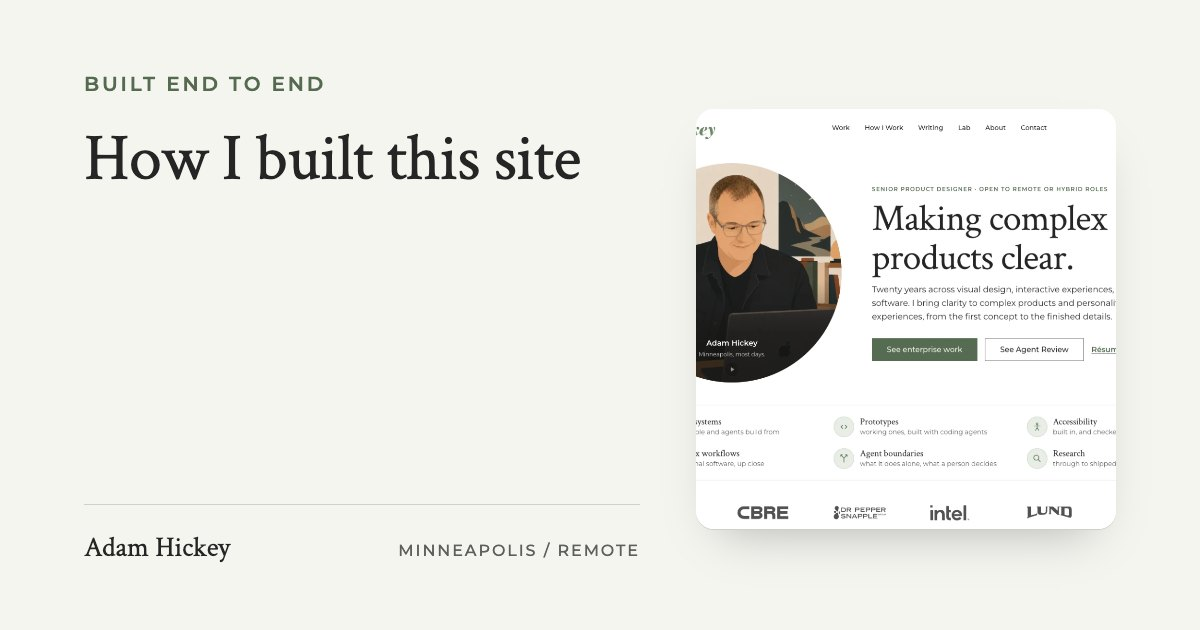
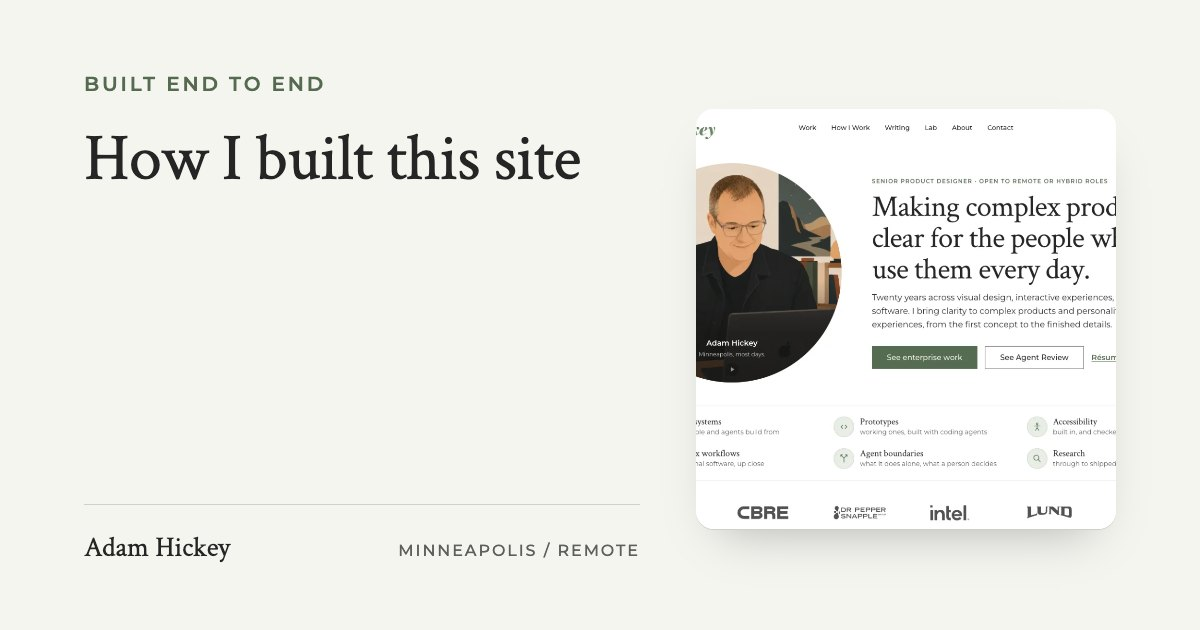
Homepage headline: "Making complex products clear for the people who use them every day.", three lines at 64px beside the portrait, back on --type-title-inset (36 -> 64) and --type-title (34 -> 68 stacked) where #650 had given it a 48 -> 80 ramp of its own. Four words read too short and 80px too lou

Changed region(s): [[0.7092, 0.2714, 0.925, 0.6032], [0.6783, 0.181, 0.8633, 0.2111]]

diff --git a/design-system/index.html b/design-system/index.html
@@ -84,8 +84,8 @@
   <!-- The site stylesheet IS the system; this page documents it. -->
   <link rel="stylesheet" href="../color.css?v=9" />
   <link rel="stylesheet" href="../shell.css?v=6" />
-  <link rel="stylesheet" href="../type.css?v=6" />
-  <link rel="stylesheet" href="../style.css?v=20261026a" />
+  <link rel="stylesheet" href="../type.css?v=7" />
+  <link rel="stylesheet" href="../style.css?v=20261026b" />
   <link rel="stylesheet" href="../site-nav.css?v=20261026a" />
   <link rel="stylesheet" href="ds.css?v=44" />
 </head>
@@ -421,15 +421,14 @@
         <table class="ds-table ds-table-wide">
           <thead><tr><th>Ramp</th><th>Steps</th><th>min &rarr; max</th><th>Here, now</th><th>Use</th></tr></thead>
           <tbody id="ds-ramps">
-            <tr data-token="--type-title"><td><code>--type-title</code></td><td>4xl &rarr; 8xl</td><td>34 &rarr; 68</td><td class="ds-ramp-now"></td><td><code>h1</code>, every page title but the homepage hero.</td></tr>
+            <tr data-token="--type-title"><td><code>--type-title</code></td><td>4xl &rarr; 8xl</td><td>34 &rarr; 68</td><td class="ds-ramp-now"></td><td><code>h1</code>, every page title, the homepage hero included.</td></tr>
             <tr data-token="--type-section"><td><code>--type-section</code></td><td>3xl &rarr; 6xl</td><td>28 &rarr; 48</td><td class="ds-ramp-now"></td><td><code>h2</code>, a section heading.</td></tr>
             <tr data-token="--type-subsection"><td><code>--type-subsection</code></td><td>2xl &rarr; 4xl</td><td>24 &rarr; 34</td><td class="ds-ramp-now"></td><td><code>h3</code>, a subsection heading.</td></tr>
             <tr data-token="--type-lede"><td><code>--type-lede</code></td><td>lg &rarr; 2xl</td><td>18 &rarr; 24</td><td class="ds-ramp-now"></td><td>Deks, ledes, pull quotes.</td></tr>
-            <tr data-token="--type-title-inset"><td><code>--type-title-inset</code></td><td>2xs&nbsp;h1 &rarr; 4xl</td><td>36 &rarr; 64</td><td class="ds-ramp-now"></td><td>A title that shares its row with a picture: the cockpit's.</td></tr>
-            <tr data-token="--type-title-hero"><td><code>--type-title-hero</code></td><td>6xl &rarr; 9xl</td><td>48 &rarr; 80</td><td class="ds-ramp-now"></td><td>The homepage hero, at every width: 48 through 768, 80 from 1280.</td></tr>
+            <tr data-token="--type-title-inset"><td><code>--type-title-inset</code></td><td>2xs&nbsp;h1 &rarr; 4xl</td><td>36 &rarr; 64</td><td class="ds-ramp-now"></td><td>The homepage hero, which shares its row with the portrait.</td></tr>
           </tbody>
         </table>
-        <p class="ds-demo-note">The shared window is the point, not a tidiness preference. At any width every ramp sits at the same progress between its own endpoints, so an ordering that holds at 400px and at 1280px holds at every width in between, provably, with nothing to test. Two ramps are deliberately outside it, and both run 768 to 1280, because the column they are sized against only exists in that range. <code>--type-title-inset</code> is for a title beside a picture; below 768 the row stacks and the title takes <code>--type-title</code> like every other h1. <code>--type-title-hero</code> is the homepage's four-word headline, which sets in two lines at 48 on a phone and holds 48 until the portrait moves beside it, then climbs to 80. A ramp is sized against the column it lands in, not against the page.</p>
+        <p class="ds-demo-note">The shared window is the point, not a tidiness preference. At any width every ramp sits at the same progress between its own endpoints, so an ordering that holds at 400px and at 1280px holds at every width in between, provably, with nothing to test. One ramp is deliberately outside it: <code>--type-title-inset</code> runs 768 to 1280, because the column it is sized against only exists in that range. Above 768 the homepage hero shares its row with the portrait; below it the row stacks and the title takes <code>--type-title</code> like every other h1. A ramp is sized against the column it lands in, not against the page.</p>
 
         <h3 class="ds-sub">The heading ladder</h3>
         <p class="ds-lede">Sizes come from the ladder; the ladder comes from the document outline. Never skip a level to reach a size.</p>
@@ -438,7 +437,6 @@
           <tbody>
             <tr><td><code>h1</code> page title</td><td><code>--type-title</code></td><td>34 &rarr; 68</td><td>Serif</td><td>400</td><td>1.05</td><td>&minus;0.02em</td></tr>
             <tr><td><code>h1</code> in a narrow column</td><td><code>--type-title-inset</code></td><td>36 &rarr; 64</td><td>Serif</td><td>400</td><td>1.05</td><td>&minus;0.02em</td></tr>
-            <tr><td><code>h1</code> homepage hero</td><td><code>--type-title-hero</code></td><td>48 &rarr; 80</td><td>Serif</td><td>400</td><td>1.05</td><td>&minus;0.02em</td></tr>
             <tr><td><code>h2</code> section</td><td><code>--type-section</code></td><td>28 &rarr; 48</td><td>Serif</td><td>400</td><td>1.15</td><td>&minus;0.015em</td></tr>
             <tr><td><code>h3</code> subsection</td><td><code>--type-subsection</code></td><td>24 &rarr; 34</td><td>Serif</td><td>400</td><td>1.15</td><td>&minus;0.01em</td></tr>
             <tr><td><code>h4</code> block title</td><td><code>--text-xl</code></td><td>20</td><td>Sans</td><td>600</td><td>1.35</td><td>&minus;0.01em</td></tr>

diff --git a/index.html b/index.html
@@ -21,7 +21,7 @@
 
   <meta name="color-scheme" content="light" />
   <meta property="og:title" content="Adam Hickey | Senior Product Designer for Complex Software" />
-  <meta property="og:description" content="Making complex products clear. Twenty years across visual design, interactive experiences, and enterprise software: clarity for complex products and personality for digital experiences, from the first concept to the finished details." />
+  <meta property="og:description" content="Making complex products clear for the people who use them every day. Twenty years across visual design, interactive experiences, and enterprise software: clarity for complex products and personality for digital experiences, from the first concept to the finished details." />
   <meta property="og:type" content="website" />
   <!-- Absolute because scrapers do not resolve a relative og:image, and the
        canonical origin is the production one whichever host is serving this:
@@ -30,7 +30,7 @@
        "How a change reaches the live site". -->
   <link rel="canonical" href="https://adamhickey.com/" />
   <meta property="og:url" content="https://adamhickey.com/" />
-  <meta property="og:image" content="https://adamhickey.com/img/og/index.jpg?v=9" />
+  <meta property="og:image" content="https://adamhickey.com/img/og/index.jpg?v=10" />
   <meta property="og:image:width" content="1200" />
   <meta property="og:image:height" content="630" />
   <meta name="twitter:card" content="summary_large_image" />
@@ -51,7 +51,7 @@
           "jobTitle": "Senior Product Designer",
           "description": "Senior product designer for complex enterprise software, design systems and agentic workflows, who builds what he designs, in Minneapolis.",
           "url": "https://adamhickey.com/",
-          "image": "https://adamhickey.com/img/og/index.jpg?v=9",
+          "image": "https://adamhickey.com/img/og/index.jpg?v=10",
           "email": "mailto:adam@adamhickey.com",
           "address": {
             "@type": "PostalAddress",
@@ -85,7 +85,7 @@
           "name": "Adam Hickey — Product Design",
           "description": "Adam Hickey's independent product design practice in Minneapolis, for complex enterprise software: design systems, modernizing legacy products, and AI product prototypes. Twenty years inside enterprise platforms, design systems, and products that outgrew their original shape.",
           "url": "https://adamhickey.com/",
-          "image": "https://adamhickey.com/img/og/index.jpg?v=9",
+          "image": "https://adamhickey.com/img/og/index.jpg?v=10",
           "founder": {
             "@id": "https://adamhickey.com/#adam"
           },
@@ -121,8 +121,8 @@
   <link rel="stylesheet" href="https://fonts.googleapis.com/css2?family=Crimson+Text:ital,wght@0,400;1,400&family=Montserrat:wght@400;500;600;700&display=swap" />
   <link rel="stylesheet" href="color.css?v=9" />
   <link rel="stylesheet" href="shell.css?v=6" />
-  <link rel="stylesheet" href="type.css?v=6" />
-  <link rel="stylesheet" href="style.css?v=20261026a" />
+  <link rel="stylesheet" href="type.css?v=7" />
+  <link rel="stylesheet" href="style.css?v=20261026b" />
   <link rel="stylesheet" href="site-nav.css?v=20261026a" />
   <link rel="stylesheet" href="app-device.css?v=1" />
   <link rel="stylesheet" href="quiet-cancel.css?v=1" />
@@ -395,14 +395,17 @@
                experiences made clear, distinctive, and precise." until the
                same day, when Adam kept "clear" and wanted the rest shorter:
                "Making complex products clear." names the problem the work
-               solves, where "distinctive" is what every studio says. The dek is the twenty years across the three
+               solves, where "distinctive" is what every studio says. Later that
+               day Adam found four words too short and the 80px they were set
+               at too loud: the line names who the clarity is for, in three
+               lines, and the size is the --type-title-inset it had before. The dek is the twenty years across the three
                kinds of work, then what he brings to each, in 30 words. The
                agents left the dek: Agent Review keeps the second button and
                the lab card, and the eyebrow still says the title a recruiter
                searches. The share card, og:description and llms.txt's summary
                moved with it; the <title> and description are search language
                and stayed. -->
-<h1 class="hero-title">Making complex products clear.</h1>
+<h1 class="hero-title">Making complex products clear for the people who use them every day.</h1>
           <!-- ONE PARAGRAPH, since 2026-10-09. The thesis came out: "AI is
                changing the shape of product design" is the one sentence on
                the page every reader already believes, and "I'm exploring

diff --git a/case-study/this-site.html b/case-study/this-site.html
@@ -19,7 +19,7 @@
   <meta property="og:url" content="https://adamhickey.com/case-study/this-site.html" />
   <meta property="og:title" content="How I built this site | Adam Hickey" />
   <meta property="og:description" content="How adamhickey.com is built: thirty-eight pages of plain HTML with no framework and no build step, three token files under four normative specs, and eleven checks that measure the rendered page before anything ships." />
-  <meta property="og:image" content="https://adamhickey.com/img/og/this-site.jpg?v=9" />
+  <meta property="og:image" content="https://adamhickey.com/img/og/this-site.jpg?v=10" />
   <meta property="og:image:width" content="1200" />
   <meta property="og:image:height" content="630" />
   <meta name="twitter:card" content="summary_large_image" />
@@ -40,7 +40,7 @@
           "description": "A build write-up for adamhickey.com: thirty-eight pages of plain HTML with no framework and no build step, three token files under four normative specs, and eleven checks that measure the rendered page before anything ships.",
           "url": "https://adamhickey.com/case-study/this-site.html",
           "mainEntityOfPage": "https://adamhickey.com/case-study/this-site.html",
-          "image": "https://adamhickey.com/img/og/this-site.jpg?v=9",
+          "image": "https://adamhickey.com/img/og/this-site.jpg?v=10",
           "datePublished": "2026-09-17",
           "dateModified": "2026-10-26",
           "author": {
@@ -93,8 +93,8 @@
        studies load: one request, no framework. -->
   <link rel="stylesheet" href="../color.css?v=9" />
   <link rel="stylesheet" href="../shell.css?v=6" />
-  <link rel="stylesheet" href="../type.css?v=6" />
-  <link rel="stylesheet" href="../style.css?v=20261026a" />
+  <link rel="stylesheet" href="../type.css?v=7" />
+  <link rel="stylesheet" href="../style.css?v=20261026b" />
   <link rel="stylesheet" href="../site-nav.css?v=20261026a" />
   <!-- The chapters arrive as they are read. See reveal.css for why this is
        its own pair of files rather than style.css's .reveal. -->
@@ -238,8 +238,8 @@
              sits one click away would be the one dishonest picture here. -->
         <figure class="build-shot">
           <div class="build-laptop"><div class="build-laptop-lid">
-              <img src="../img/site/this-site.webp?v=10" width="1400" height="875" fetchpriority="high" decoding="async"
-                   alt="The homepage of this site at laptop width: the wordmark and six section links across the top, the portrait in a circle on the left, and on the right the eyebrow Senior Product Designer &middot; Open to remote or hybrid roles over the title &ldquo;Making complex products clear.&rdquo;, a three-line dek beginning &ldquo;Twenty years across visual design, interactive experiences, and enterprise software.&rdquo;, a green See enterprise work button, an outlined See Agent Review button and a R&eacute;sum&eacute; link. Under the pair, six facts in two rows of three, each with a small line icon in a pale disc, among them Agent boundaries, and a row of six client wordmarks along the bottom." />
+              <img src="../img/site/this-site.webp?v=11" width="1400" height="875" fetchpriority="high" decoding="async"
+                   alt="The homepage of this site at laptop width: the wordmark and six section links across the top, the portrait in a circle on the left, and on the right the eyebrow Senior Product Designer &middot; Open to remote or hybrid roles over the title &ldquo;Making complex products clear for the people who use them every day.&rdquo;, a three-line dek beginning &ldquo;Twenty years across visual design, interactive experiences, and enterprise software.&rdquo;, a green See enterprise work button, an outlined See Agent Review button and a R&eacute;sum&eacute; link. Under the pair, six facts in two rows of three, each with a small line icon in a pale disc, among them Agent boundaries, and a row of six client wordmarks along the bottom." />
             </div></div>
         </figure>
 

diff --git a/type.css b/type.css
@@ -83,11 +83,8 @@
 
      The thing actually worth wanting here -- a bigger page title on a phone
      -- needs either a shorter hero line or a step the scale does not have.
-     Both are real options; neither is a floor change. The first is what
-     happened, on 2026-10-26: the hero line went to four words and took a
-     ramp of its own, --type-title-hero below, and every other h1 kept these
-     floors. */
-  --type-title:      clamp(2.125rem, calc(2.125rem + 2.125 * (100vw - 25rem) / 55), 4.25rem); /* 34 -> 68  h1, every page title but the homepage hero */
+     Both are real options; neither is a floor change. */
+  --type-title:      clamp(2.125rem, calc(2.125rem + 2.125 * (100vw - 25rem) / 55), 4.25rem); /* 34 -> 68  h1; the homepage hero only while stacked */
   --type-section:    clamp(1.75rem,  calc(1.75rem  + 1.25  * (100vw - 25rem) / 55), 3rem);    /* 28 -> 48  h2 */
   --type-subsection: clamp(1.5rem,   calc(1.5rem   + 0.625 * (100vw - 25rem) / 55), 2.125rem);/* 24 -> 34  h3 */
   --type-lede:       clamp(1.125rem, calc(1.125rem + 0.375 * (100vw - 25rem) / 55), 1.5rem);  /* 18 -> 24  deks, ledes */
@@ -104,18 +101,7 @@
      stacks, the title spans the container again, and it takes --type-title
      like every other h1. The seam is the layout's own breakpoint rather
      than an unreconciled second curve. */
-  --type-title-inset: clamp(2.25rem, calc(2.25rem + 1.75 * (100vw - 48rem) / 32), 4rem); /* 36 -> 64  a title beside a picture: the cockpit's */
-
-  /* THE HOMEPAGE HERO HAS ITS OWN RAMP SINCE 2026-10-26. "Making complex
-     products clear." is four words where the old headline was nine, and its
-     longer line, "products clear.", is 6.29em wide, so the title can grow
-     a long way and still set in two lines: 48 on a phone, held through 768
-     where the portrait moves beside it (388px of column, room for 61), then
-     up to 80 at 1280 (681px, room for 108). One curve from phone to
-     desktop, so there is no seam at the breakpoint, and both pins are
-     steps, 6xl and 9xl. 13vw is the one floor below 360, where 48 would
-     run "complex" onto a third line: 41.6 at 320, out of the way by 375. */
-  --type-title-hero: min(13vw, clamp(3rem, calc(3rem + 2 * (100vw - 48rem) / 32), 5rem)); /* 48 -> 80  the homepage hero */
+  --type-title-inset: clamp(2.25rem, calc(2.25rem + 1.75 * (100vw - 48rem) / 32), 4rem); /* 36 -> 64  the hero title, beside the portrait */
 
   /* Line height -- a function of size, not of component. Bigger type needs
      less leading; at 80px, 1.05 already opens more space than 1.6 at 16px. */

diff --git a/style.css b/style.css
@@ -3416,18 +3416,18 @@ a.mini-phone:focus-visible { transform: scale(var(--motion-lift)); }
   .hero-copy  { grid-column: 2; grid-row: 1; width: auto; transform: translateY(var(--space-xl)); }
 }
 .hero-title {
-  /* Balance evens the rag so no line is left an orphan. Applies to the
-     block, so the per-character spans the kinetic reveal adds do not
-     interfere. */
+  /* Nine words wrap to three lines and stranded "sense." on its own; balance
+     evens the rag so no line is left an orphan. Applies to the block, so the
+     per-character spans the kinetic reveal adds do not interfere. */
   text-wrap: balance;
-  /* One ramp at every width, stacked and beside the portrait; see
-     --type-title-hero in type.css. */
-  font-size: var(--type-title-hero);
+  /* Stacked, this is a page title like any other. Beside the portrait it
+     is not, and takes the inset ramp; see --type-title-inset in type.css. */
+  font-size: var(--type-title);
   line-height: var(--leading-display);
   letter-spacing: var(--tracking-display);
   margin: 0 0 var(--space-sm);
 }
-@media (min-width: 768px) { .hero-title { margin-top: 0; } }
+@media (min-width: 768px) { .hero-title { margin-top: 0; font-size: var(--type-title-inset); } }
 /* This used to carry a second font-size: 11.6vw was chosen so the headline
    filled the measure on phones, where the desktop clamp bottomed out and sat
    short. It worked, but the two curves met at the breakpoint without ever

diff --git a/prototype/dispatch-cockpit.html b/prototype/dispatch-cockpit.html
@@ -115,8 +115,8 @@
   <link rel="stylesheet" href="https://fonts.googleapis.com/css2?family=Crimson+Text:ital,wght@0,400;1,400&family=Montserrat:wght@400;500;600;700&display=swap" />
   <link rel="stylesheet" href="../color.css?v=9" />
   <link rel="stylesheet" href="../shell.css?v=6" />
-  <link rel="stylesheet" href="../type.css?v=6" />
-  <link rel="stylesheet" href="../style.css?v=20261026a" />
+  <link rel="stylesheet" href="../type.css?v=7" />
+  <link rel="stylesheet" href="../style.css?v=20261026b" />
   <link rel="stylesheet" href="../site-nav.css?v=20261026a" />
   <!-- The chapters arrive as they are read. See reveal.css for why this is
        its own pair of files rather than style.css's .reveal. -->

diff --git a/lab/designing-motion.html b/lab/designing-motion.html
@@ -104,8 +104,8 @@
   <link rel="stylesheet" href="https://fonts.googleapis.com/css2?family=Crimson+Text:ital,wght@0,400;1,400&family=Montserrat:wght@400;500;600;700&display=swap" />
   <link rel="stylesheet" href="../color.css?v=9" />
   <link rel="stylesheet" href="../shell.css?v=6" />
-  <link rel="stylesheet" href="../type.css?v=6" />
-  <link rel="stylesheet" href="../style.css?v=20261026a" />
+  <link rel="stylesheet" href="../type.css?v=7" />
+  <link rel="stylesheet" href="../style.css?v=20261026b" />
   <link rel="stylesheet" href="../site-nav.css?v=20261026a" />
   <script src="../site-nav.js?v=20260906a" defer></script>
   <!-- The header logo plays a one-shot reveal clip on load and fades out

diff --git a/writing/index.html b/writing/index.html
@@ -108,8 +108,8 @@
   <link rel="stylesheet" href="https://fonts.googleapis.com/css2?family=Crimson+Text:ital,wght@0,400;1,400&family=Montserrat:wght@400;500;600;700&display=swap" />
   <link rel="stylesheet" href="../color.css?v=9" />
   <link rel="stylesheet" href="../shell.css?v=6" />
-  <link rel="stylesheet" href="../type.css?v=6" />
-  <link rel="stylesheet" href="../style.css?v=20261026a" />
+  <link rel="stylesheet" href="../type.css?v=7" />
+  <link rel="stylesheet" href="../style.css?v=20261026b" />
   <link rel="stylesheet" href="../site-nav.css?v=20261026a" />
   <script src="../site-nav.js?v=20260906a" defer></script>
   <!-- The header logo plays a one-shot reveal clip on load and fades out

diff --git a/writing/designing-for-the-moment-the-workflow-breaks.html b/writing/designing-for-the-moment-the-workflow-breaks.html
@@ -107,8 +107,8 @@
   <link rel="stylesheet" href="https://fonts.googleapis.com/css2?family=Crimson+Text:ital,wght@0,400;1,400&family=Montserrat:wght@400;500;600;700&display=swap" />
   <link rel="stylesheet" href="../color.css?v=9" />
   <link rel="stylesheet" href="../shell.css?v=6" />
-  <link rel="stylesheet" href="../type.css?v=6" />
-  <link rel="stylesheet" href="../style.css?v=20261026a" />
+  <link rel="stylesheet" href="../type.css?v=7" />
+  <link rel="stylesheet" href="../style.css?v=20261026b" />
   <link rel="stylesheet" href="../design-psychology.css?v=7" />
   <link rel="stylesheet" href="../site-nav.css?v=20261026a" />
   <link rel="stylesheet" href="../read-aloud.css?v=6" />

diff --git a/writing/enterprise-ai-should-help-people-decide-not-just-answer.html b/writing/enterprise-ai-should-help-people-decide-not-just-answer.html
@@ -107,8 +107,8 @@
   <link rel="stylesheet" href="https://fonts.googleapis.com/css2?family=Crimson+Text:ital,wght@0,400;1,400&family=Montserrat:wght@400;500;600;700&display=swap" />
   <link rel="stylesheet" href="../color.css?v=9" />
   <link rel="stylesheet" href="../shell.css?v=6" />
-  <link rel="stylesheet" href="../type.css?v=6" />
-  <link rel="stylesheet" href="../style.css?v=20261026a" />
+  <link rel="stylesheet" href="../type.css?v=7" />
+  <link rel="stylesheet" href="../style.css?v=20261026b" />
   <link rel="stylesheet" href="../design-psychology.css?v=7" />
   <link rel="stylesheet" href="../site-nav.css?v=20261026a" />
   <link rel="stylesheet" href="../read-aloud.css?v=6" />

diff --git a/writing/standardizing-ux-across-40-sap-fiori-apps.html b/writing/standardizing-ux-across-40-sap-fiori-apps.html
@@ -111,8 +111,8 @@
   <link rel="stylesheet" href="https://fonts.googleapis.com/css2?family=Crimson+Text:ital,wght@0,400;1,400&family=Montserrat:wght@400;500;600;700&display=swap" />
   <link rel="stylesheet" href="../color.css?v=9" />
   <link rel="stylesheet" href="../shell.css?v=6" />
-  <link rel="stylesheet" href="../type.css?v=6" />
-  <link rel="stylesheet" href="../style.css?v=20261026a" />
+  <link rel="stylesheet" href="../type.css?v=7" />
+  <link rel="stylesheet" href="../style.css?v=20261026b" />
   <link rel="stylesheet" href="../design-psychology.css?v=7" />
   <link rel="stylesheet" href="../site-nav.css?v=20261026a" />
   <link rel="stylesheet" href="../read-aloud.css?v=6" />

diff --git a/writing/what-does-a-design-system-need-once-ai-is-in-the-product.html b/writing/what-does-a-design-system-need-once-ai-is-in-the-product.html
@@ -107,8 +107,8 @@
   <link rel="stylesheet" href="https://fonts.googleapis.com/css2?family=Crimson+Text:ital,wght@0,400;1,400&family=Montserrat:wght@400;500;600;700&display=swap" />
   <link rel="stylesheet" href="../color.css?v=9" />
   <link rel="stylesheet" href="../shell.css?v=6" />
-  <link rel="stylesheet" href="../type.css?v=6" />
-  <link rel="stylesheet" href="../style.css?v=20261026a" />
+  <link rel="stylesheet" href="../type.css?v=7" />
+  <link rel="stylesheet" href="../style.css?v=20261026b" />
   <link rel="stylesheet" href="../design-psychology.css?v=7" />
   <link rel="stylesheet" href="../site-nav.css?v=20261026a" />
   <link rel="stylesheet" href="../read-aloud.css?v=6" />
